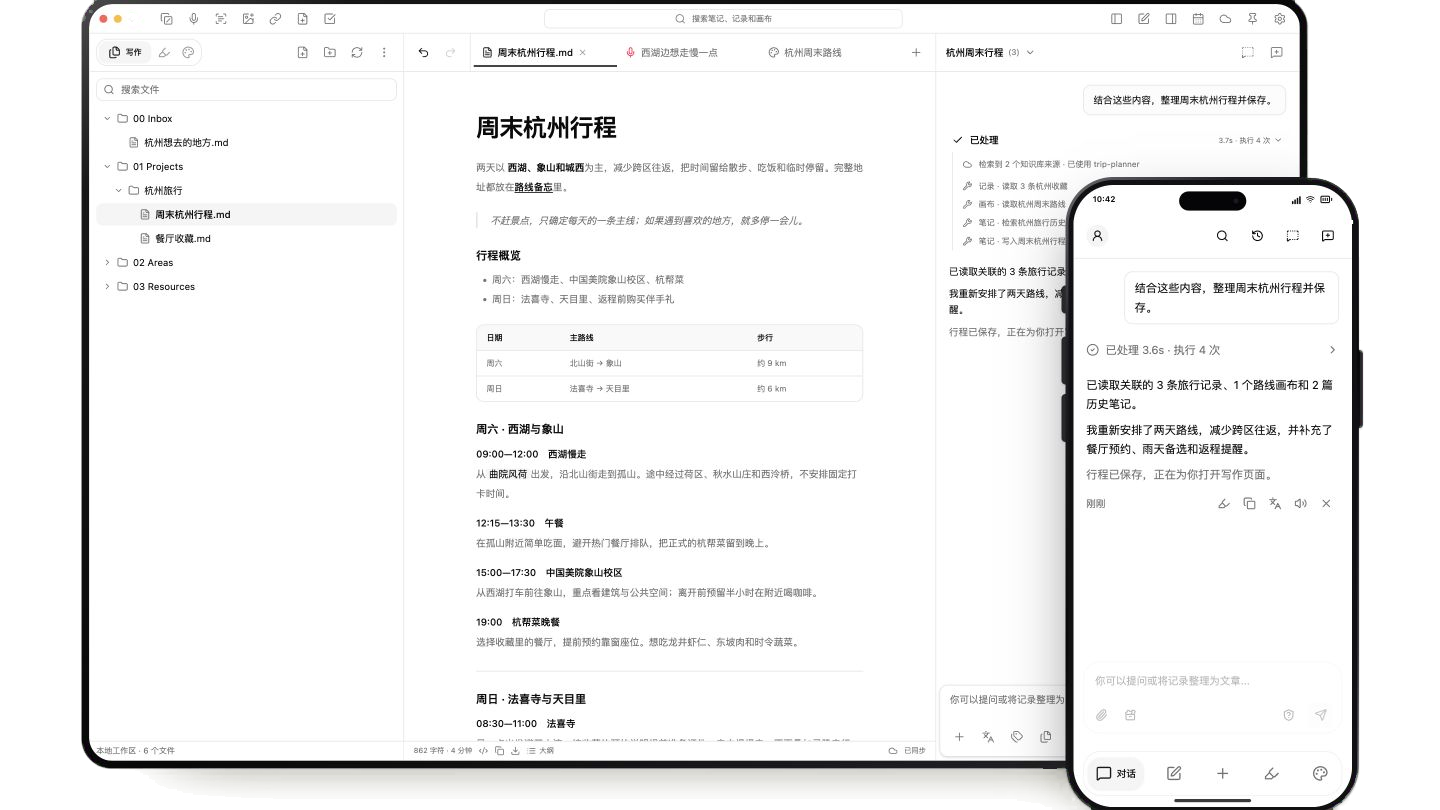
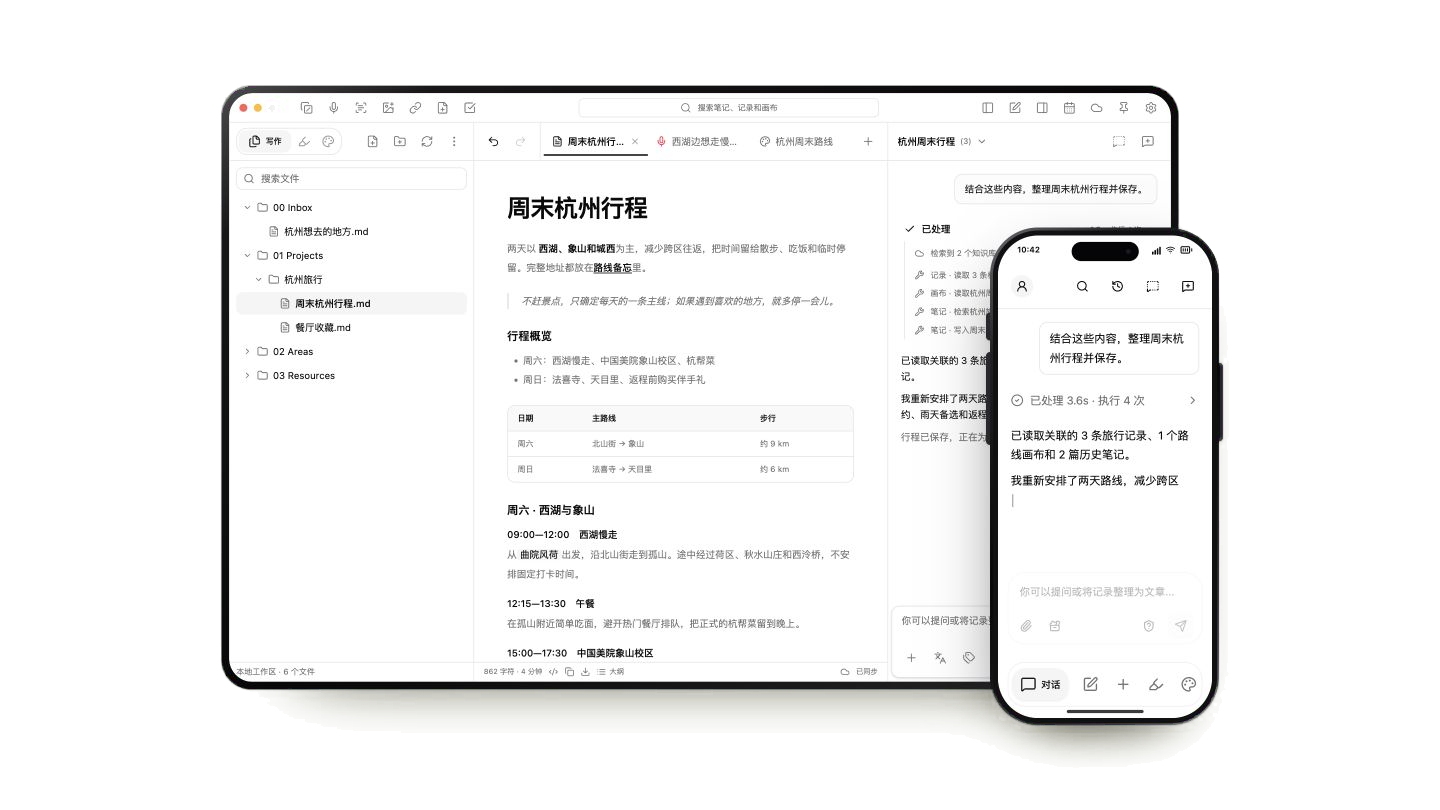
feat: 更新捐赠页面内容与支持方式，优化二维码展示

Changed region(s): [[0.0312, 0.0, 0.9688, 1.0], [0.625, 0.1543, 0.6875, 0.1852], [0.25, 0.1543, 0.2812, 0.1852]]

diff --git a/components/marketing/qr-action-page.tsx b/components/marketing/qr-action-page.tsx
@@ -16,13 +16,19 @@ import { ShareButton } from "@/components/marketing/share-button"
 
 type QrActionItem = {
   title: string
-  description: string
-  image: {
+  description?: string
+  image?: {
     src: string
     alt: string
   }
-  icon: LucideIcon
+  icon?: LucideIcon
+  iconImage?: {
+    src: string
+    alt: string
+  }
   priority?: boolean
+  action?: string
+  href?: string
 }
 
 type QrActionDetails = {
@@ -155,7 +161,12 @@ export function QrActionPage({
             <h2 className="text-2xl font-semibold tracking-tight">{sectionTitle}</h2>
             <p className="text-sm leading-6 text-muted-foreground">{sectionDescription}</p>
           </div>
-          <div className="grid gap-4 sm:grid-cols-2">
+          <div
+            className={cn(
+              "grid gap-4",
+              items.length >= 3 ? "sm:grid-cols-3" : "sm:grid-cols-2",
+            )}
+          >
             {items.map((item, index) => {
               const Icon = item.icon
 
@@ -163,23 +174,56 @@ export function QrActionPage({
                 <Card key={item.title} className="h-full overflow-hidden">
                   <CardHeader>
                     <CardTitle className="flex items-center gap-2 text-base">
-                      <Icon className="size-4 text-muted-foreground" aria-hidden="true" />
+                      {item.iconImage ? (
+                        <img
+                          src={item.iconImage.src}
+                          alt=""
+                          className="size-5 rounded"
+                        />
+                      ) : Icon ? (
+                        <Icon className="size-4 text-muted-foreground" aria-hidden="true" />
+                      ) : null}
                       {item.title}
                     </CardTitle>
-                    <CardDescription className="leading-6">{item.description}</CardDescription>
+                    {item.description ? (
+                      <CardDescription className="leading-6">
+                        {item.description}
+                      </CardDescription>
+                    ) : null}
                     <CardAction>
                       <Badge variant="outline">{String(index + 1).padStart(2, "0")}</Badge>
                     </CardAction>
                   </CardHeader>
                   <CardContent>
                     <div className="flex min-h-[300px] items-center justify-center rounded-lg border bg-muted/30 p-5">
-                      <img
-                        src={item.image.src}
-                        alt={item.image.alt}
-                        loading={item.priority ? "eager" : "lazy"}
-                        decoding="async"
-                        className="max-h-[280px] max-w-full rounded-md object-contain"
-                      />
+                      {item.image ? (
+                        <img
+                          src={item.image.src}
+                          alt={item.image.alt}
+                          loading={item.priority ? "eager" : "lazy"}
+                          decoding="async"
+                          className="max-h-[280px] max-w-full rounded-md object-contain"
+                        />
+                      ) : item.href && item.action ? (
+                        <div className="flex flex-col items-center gap-5 text-center">
+                          {item.iconImage ? (
+                            <img
+                              src={item.iconImage.src}
+                              alt={item.iconImage.alt}
+                              className="size-24 rounded-3xl"
+                            />
+                          ) : Icon ? (
+                            <div className="flex size-16 items-center justify-center rounded-2xl bg-pink-500/10">
+                              <Icon className="size-8 text-pink-500" aria-hidden="true" />
+                            </div>
+                          ) : null}
+                          <Button asChild>
+                            <a href={item.href} target="_blank" rel="noreferrer">
+                              {item.action}
+                            </a>
+                          </Button>
+                        </div>
+                      ) : null}
                     </div>
                   </CardContent>
                 </Card>

diff --git a/app/[lang]/donate/page.tsx b/app/[lang]/donate/page.tsx
@@ -49,7 +49,11 @@ const content = {
       ],
     },
     sectionTitle: '选择支持方式',
-    sectionDescription: '自愿选择任意一种方式即可。每一份支持都会用于帮助项目继续维护。',
+    sectionDescription: '可以通过爱发电按月支持，也可以直接使用支付宝或微信。每一份支持都会用于帮助项目继续维护。',
+    afdian: {
+      title: '爱发电',
+      action: '前往爱发电',
+    },
     alternativeSupport: {
       title: '不捐赠，也可以支持',
       description: '钱不是唯一的支持方式。下面这些行动同样能帮助 NoteGen 被看见、发现问题并持续改进。',
@@ -75,12 +79,10 @@ const content = {
     qrcodes: {
       alipay: {
         title: '支付宝',
-        description: '支付宝扫码支持。',
         alt: 'NoteGen 支付宝收款码',
       },
       wechatPay: {
         title: '微信支付',
-        description: '微信支付扫码支持。',
         alt: 'NoteGen 微信支付收款码',
       },
     },
@@ -119,7 +121,11 @@ const content = {
       ],
     },
     sectionTitle: 'Choose a way to support',
-    sectionDescription: 'Choose either option if you would like to contribute. Every contribution helps sustain the project.',
+    sectionDescription: 'Support monthly through Afdian, or contribute directly with Alipay or WeChat Pay. Every contribution helps sustain the project.',
+    afdian: {
+      title: 'Afdian',
+      action: 'Open Afdian',
+    },
     alternativeSupport: {
       title: 'Other ways to help',
       description: 'Money is not the only useful form of support. These actions help NoteGen reach people, find problems, and keep improving.',
@@ -145,12 +151,10 @@ const content = {
     qrcodes: {
       alipay: {
         title: 'Alipay',
-        description: 'Scan with Alipay.',
         alt: 'NoteGen Alipay donation QR code',
       },
       wechatPay: {
         title: 'WeChat Pay',
-        description: 'Scan with WeChat Pay.',
         alt: 'NoteGen WeChat Pay donation QR code',
       },
     },
@@ -220,7 +224,6 @@ export default async function DonatePage({
   const qrItems = [
     {
       title: t.qrcodes.alipay.title,
-      description: t.qrcodes.alipay.description,
       image: {
         src: alipayDonationQrUrl,
         alt: t.qrcodes.alipay.alt,
@@ -230,7 +233,6 @@ export default async function DonatePage({
     },
     {
       title: t.qrcodes.wechatPay.title,
-      description: t.qrcodes.wechatPay.description,
       image: {
         src: wechatPayDonationQrUrl,
         alt: t.qrcodes.wechatPay.alt,
@@ -257,7 +259,17 @@ export default async function DonatePage({
       }}
       sectionTitle={t.sectionTitle}
       sectionDescription={t.sectionDescription}
-      items={qrItems}
+      items={[
+        {
+          ...t.afdian,
+          href: 'https://afdian.com/a/notegen',
+          iconImage: {
+            src: 'https://static.afdiancdn.com/static/img/icons/apple-touch-icon-152x152.png',
+            alt: language === 'cn' ? '爱发电图标' : 'Afdian icon',
+          },
+        },
+        ...qrItems,
+      ]}
       alternativeSupport={{
         ...t.alternativeSupport,
         items: t.alternativeSupport.items.map((item, index) => ({

diff --git a/components/home/note-gen-demo.tsx b/components/home/note-gen-demo.tsx
@@ -133,17 +133,7 @@ function useDemoLanguage() {
   }
 }
 
-export function NoteGenDemo({
-  lang,
-  initialDesktopWorkspace = "records",
-  desktopAutoCycle = true,
-  mobileAutoAdvance = true,
-}: {
-  lang: DemoLang
-  initialDesktopWorkspace?: "writing" | "records" | "canvas"
-  desktopAutoCycle?: boolean
-  mobileAutoAdvance?: boolean
-}) {
+export function NoteGenDemo({ lang }: { lang: DemoLang }) {
   return (
     <DemoLanguageContext.Provider value={lang}>
       <section
@@ -153,17 +143,13 @@ export function NoteGenDemo({
         <div className="hidden w-full pb-[3.5%] md:block">
           <div className="w-[96%]">
             <MacBookFrame>
-              <NoteGenDesktopReplica
-                lang={lang}
-                initialWorkspace={initialDesktopWorkspace}
-                autoCycle={desktopAutoCycle}
-              />
+              <NoteGenDesktopReplica lang={lang} />
             </MacBookFrame>
           </div>
         </div>
 
         <div className="relative mx-auto w-full max-w-[360px] px-2 md:absolute md:bottom-0 md:right-0 md:mx-0 md:w-[23%] md:min-w-[170px] md:max-w-[360px] md:px-0">
-          <MobileReplica autoAdvance={mobileAutoAdvance} />
+          <MobileReplica />
         </div>
       </section>
     </DemoLanguageContext.Provider>
@@ -751,7 +737,7 @@ function CanvasScene() {
   )
 }
 
-function MobileReplica({ autoAdvance = true }: { autoAdvance?: boolean }) {
+function MobileReplica() {
   const { lang, text } = useDemoLanguage()
   const [page, setPage] = useState<"chat" | "writing" | "record" | "canvas">("chat")
   const [quickOpen, setQuickOpen] = useState(false)
@@ -794,11 +780,7 @@ function MobileReplica({ autoAdvance = true }: { autoAdvance?: boolean }) {
               </div>
             </div>
             <div className="h-[calc(100%-36px)]">
-              {page === "chat" && (
-                <MobileChatPage onComplete={() => {
-                  if (autoAdvance) setPage("writing")
-                }} />
-              )}
+              {page === "chat" && <MobileChatPage onComplete={() => setPage("writing")} />}
               {page === "writing" && <MobileWritingPage />}
               {page === "record" && <MobileRecordPage />}
               {page === "canvas" && <MobileCanvasPage />}
